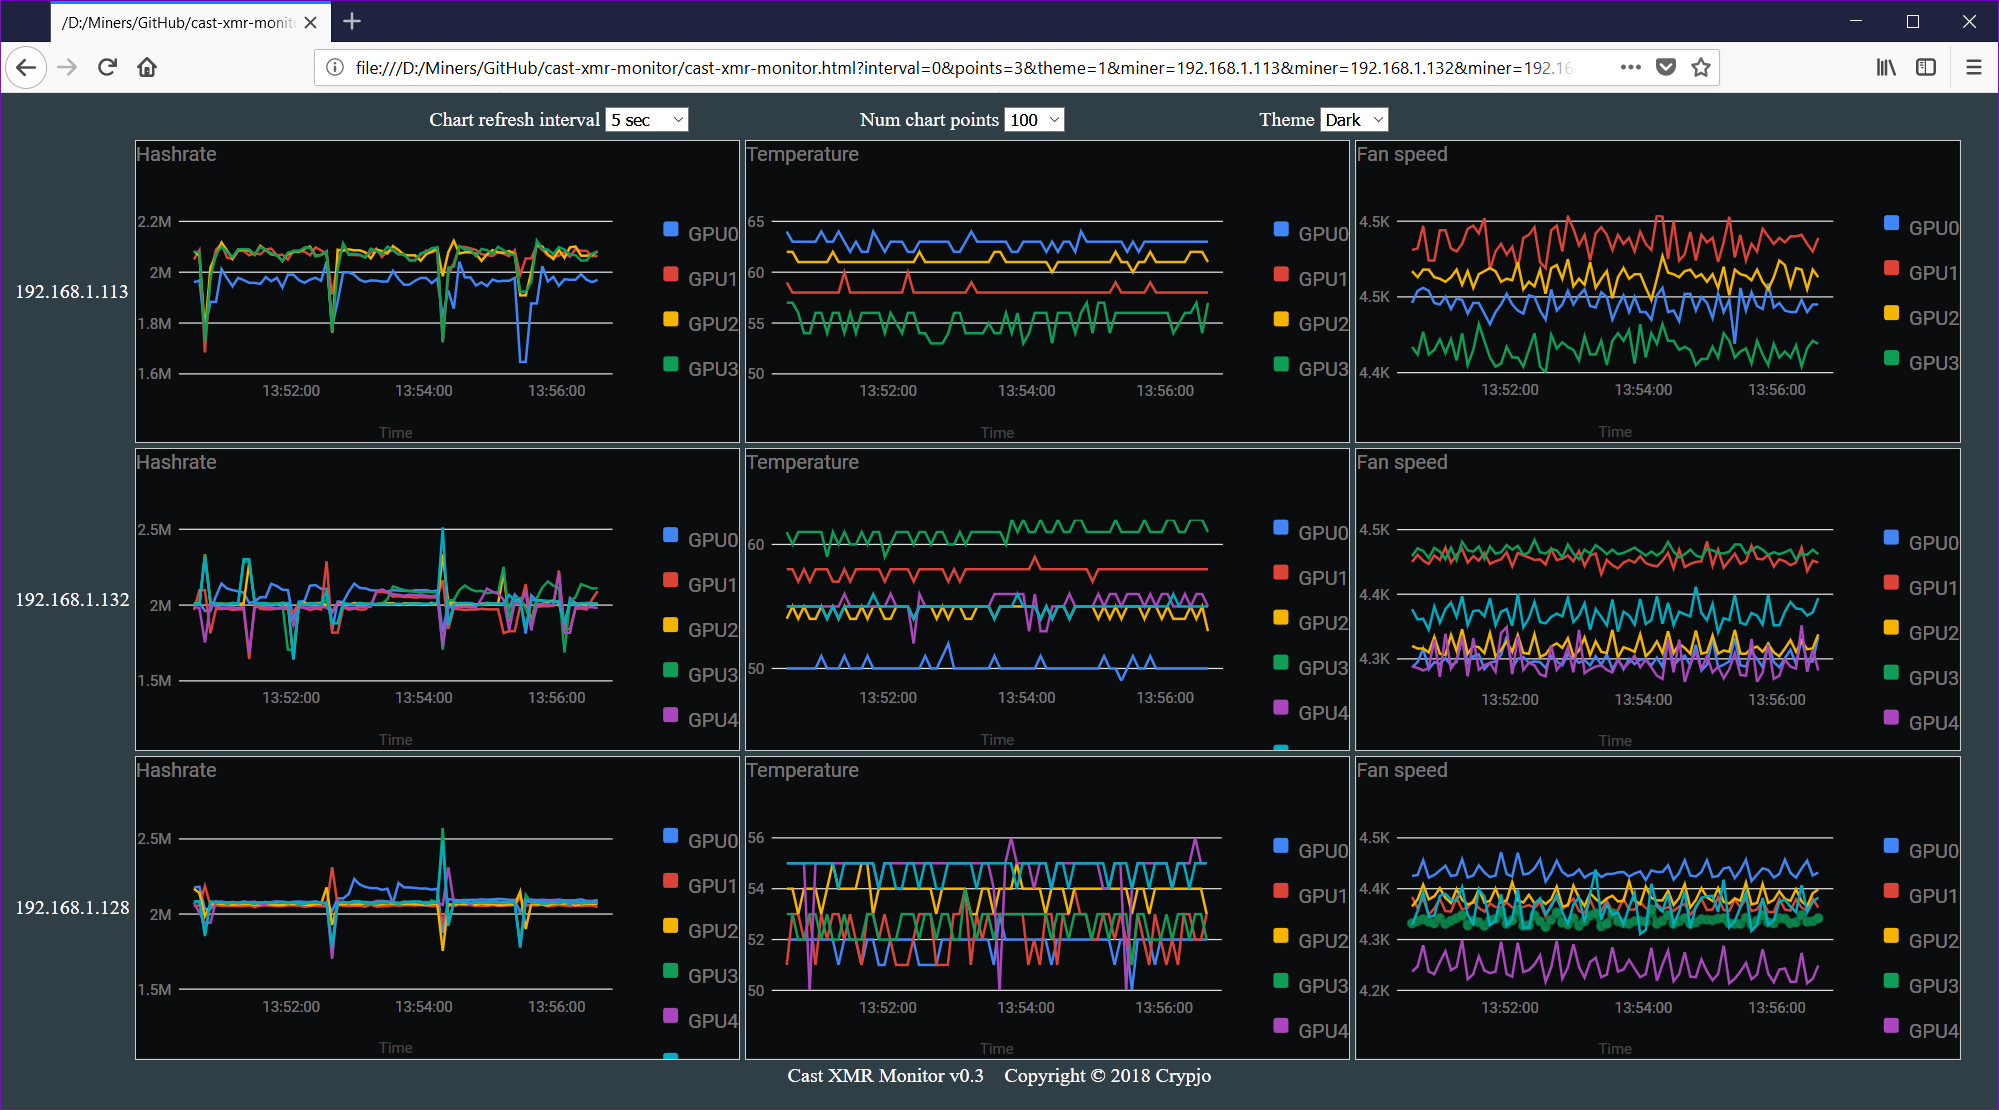
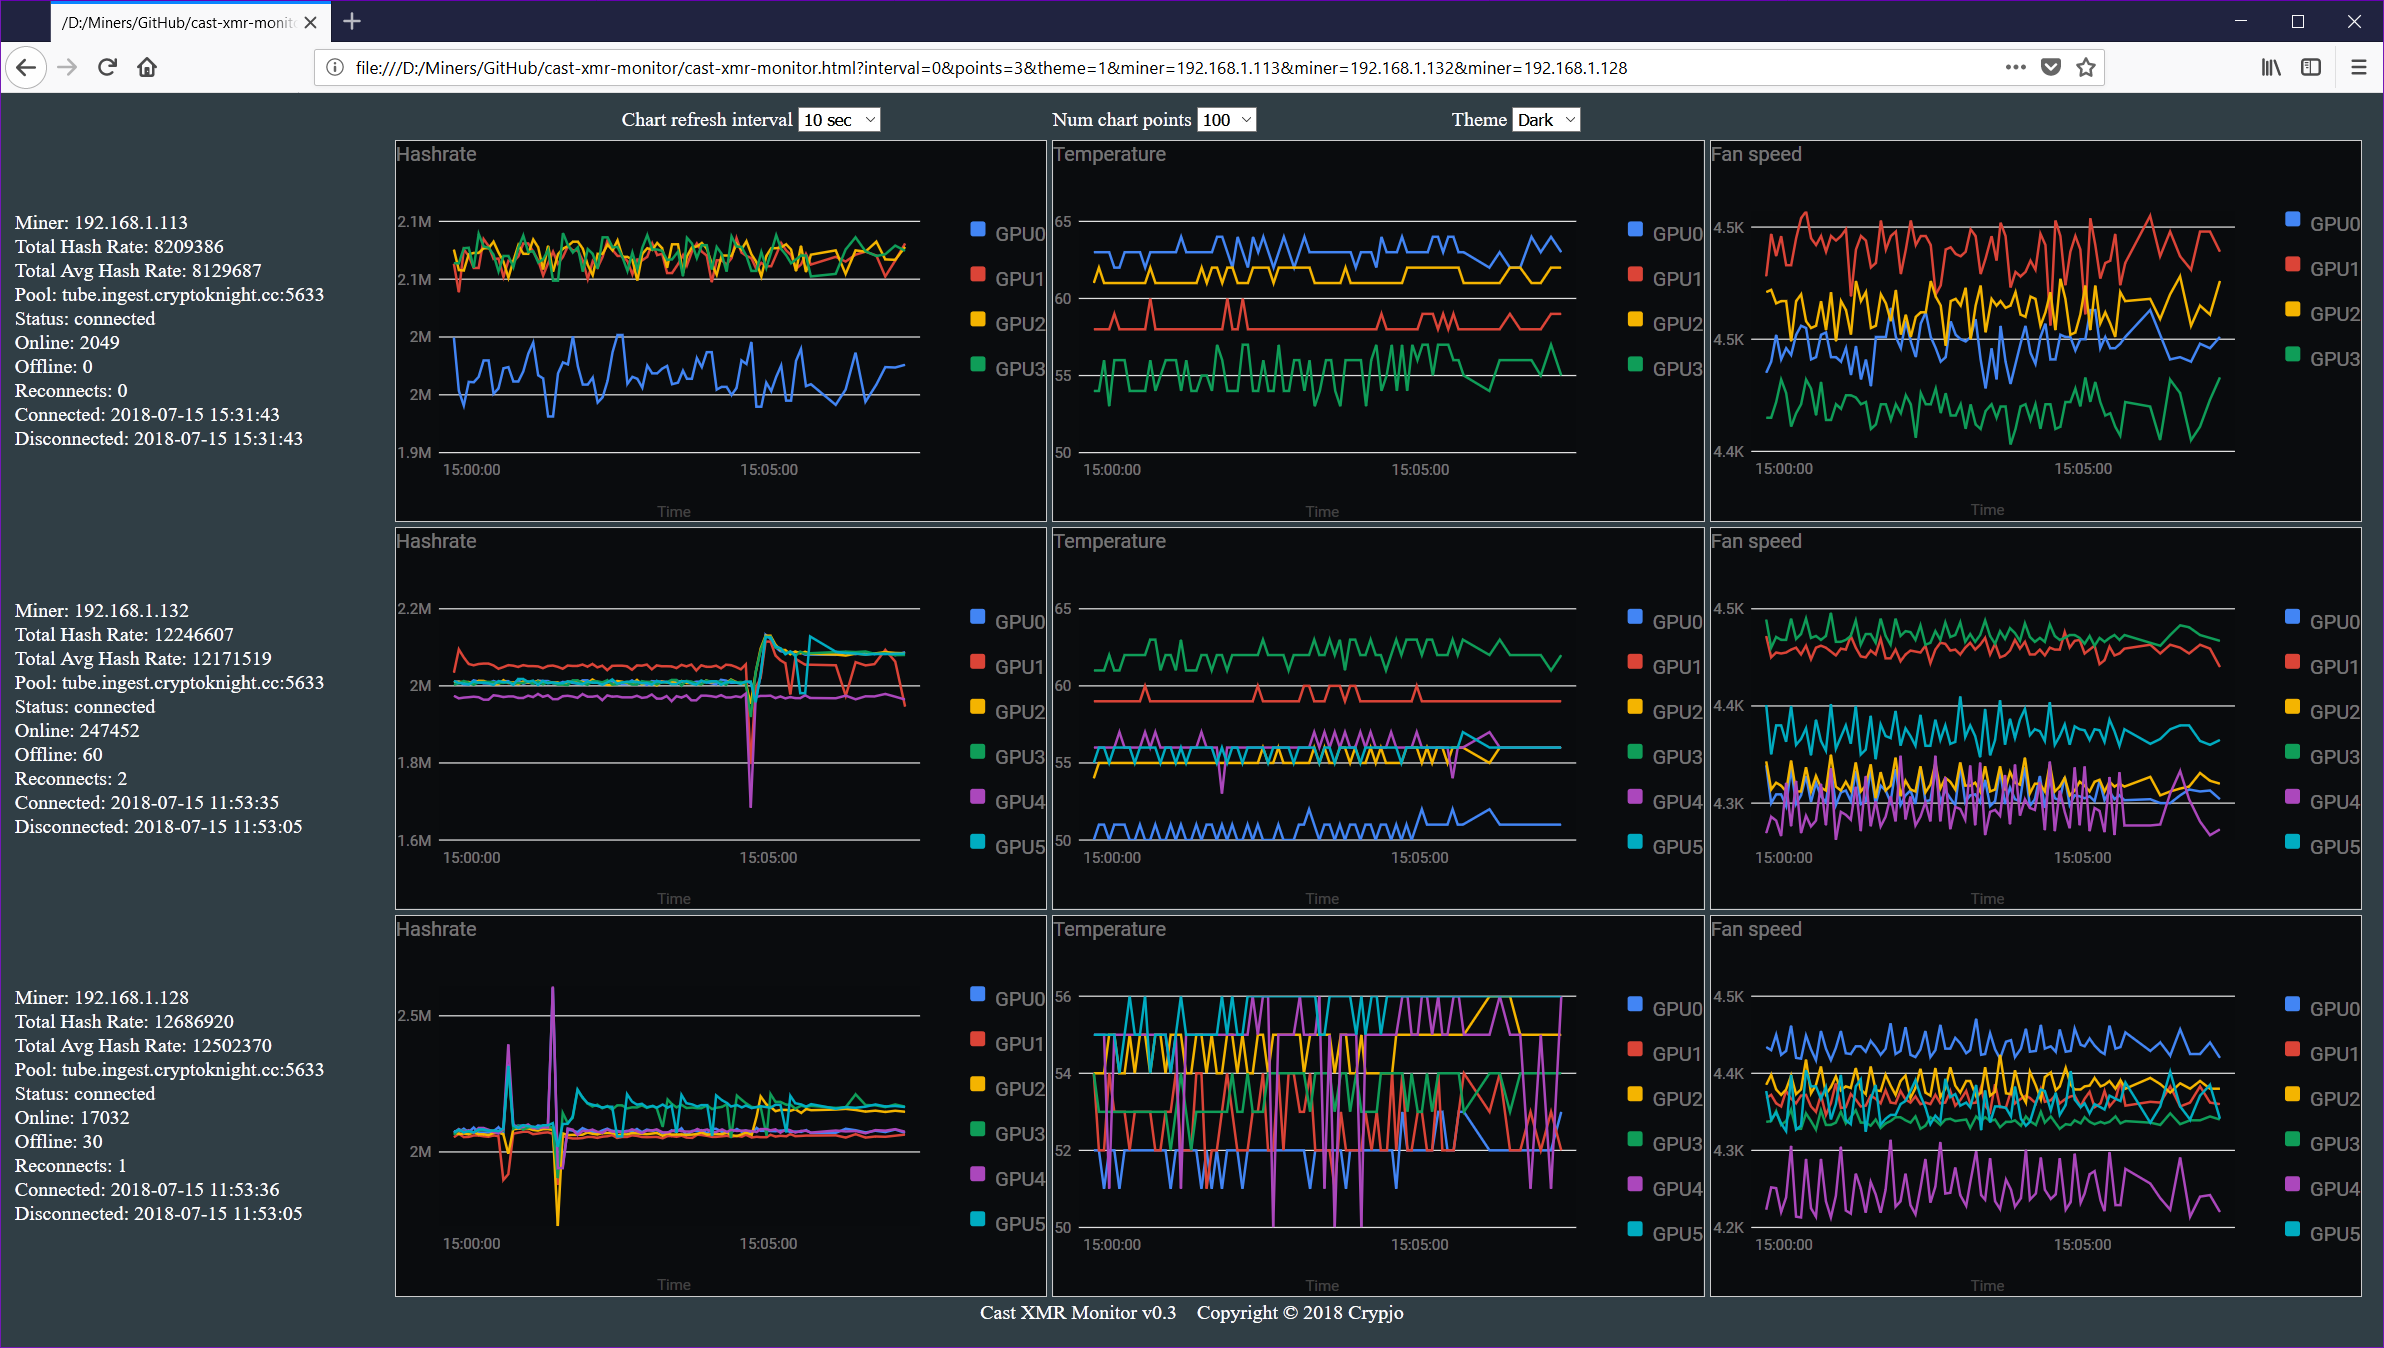
Added miner pool stats

diff --git a/cast-xmr-monitor.html b/cast-xmr-monitor.html
@@ -200,7 +200,7 @@
 			
 			dataTable.sort([{column: 0}]);
 			
-			var w = window.innerWidth / 3 - 50;
+			var w = (window.innerWidth - headerWidth ) / 3 - 15;
 			var h = window.innerHeight / urls.length - 30;
 			
 			var options = {
@@ -227,7 +227,7 @@
 			var row 	 = table.rows[index];			
 			var cells    = row.getElementsByTagName("td");
 			var dataText = cells[m+1].getElementsByTagName("div")[0]; 
-
+			updateMinerStats(index, jsonData);
 			var minerCharts = charts[index];
 			var chart;
 			if(minerCharts.length <= m){
@@ -275,6 +275,22 @@
 		cell3.innerHTML = "<td><div className=\"Fan speed\"	  style=\"border: 1px solid #ccc\"></div></td>";
 	}
 			
+	var headerWidth = 300;
+	function updateMinerStats(rowindex, jsonData){
+		var table = document.getElementById("MinerStats");
+		var row = table.rows[rowindex];
+		row.cells[0].innerHTML = "<td><div style='width:" + headerWidth + "px;'>Miner: " + urls[rowindex] + 
+								"<br>Total Hash Rate: " + jsonData.total_hash_rate +
+								"<br>Total Avg Hash Rate: " + jsonData.total_hash_rate_avg +
+								"<br>Pool: " + jsonData.pool.server +
+								"<br>Status: " + jsonData.pool.status +
+								"<br>Online: " + jsonData.pool.online +
+								"<br>Offline: " + jsonData.pool.offline +
+								"<br>Reconnects: " + jsonData.pool.reconnects +
+								"<br>Connected: " + jsonData.pool.time_connected +
+								"<br>Disconnected: " + jsonData.pool.time_disconnected + 
+								"</div></td>";
+	} 
 	// Close the dropdown menu if the user clicks outside of it
 	window.onclick = function(event) {
 		if (!event.target.matches('.dropbtn')) {
